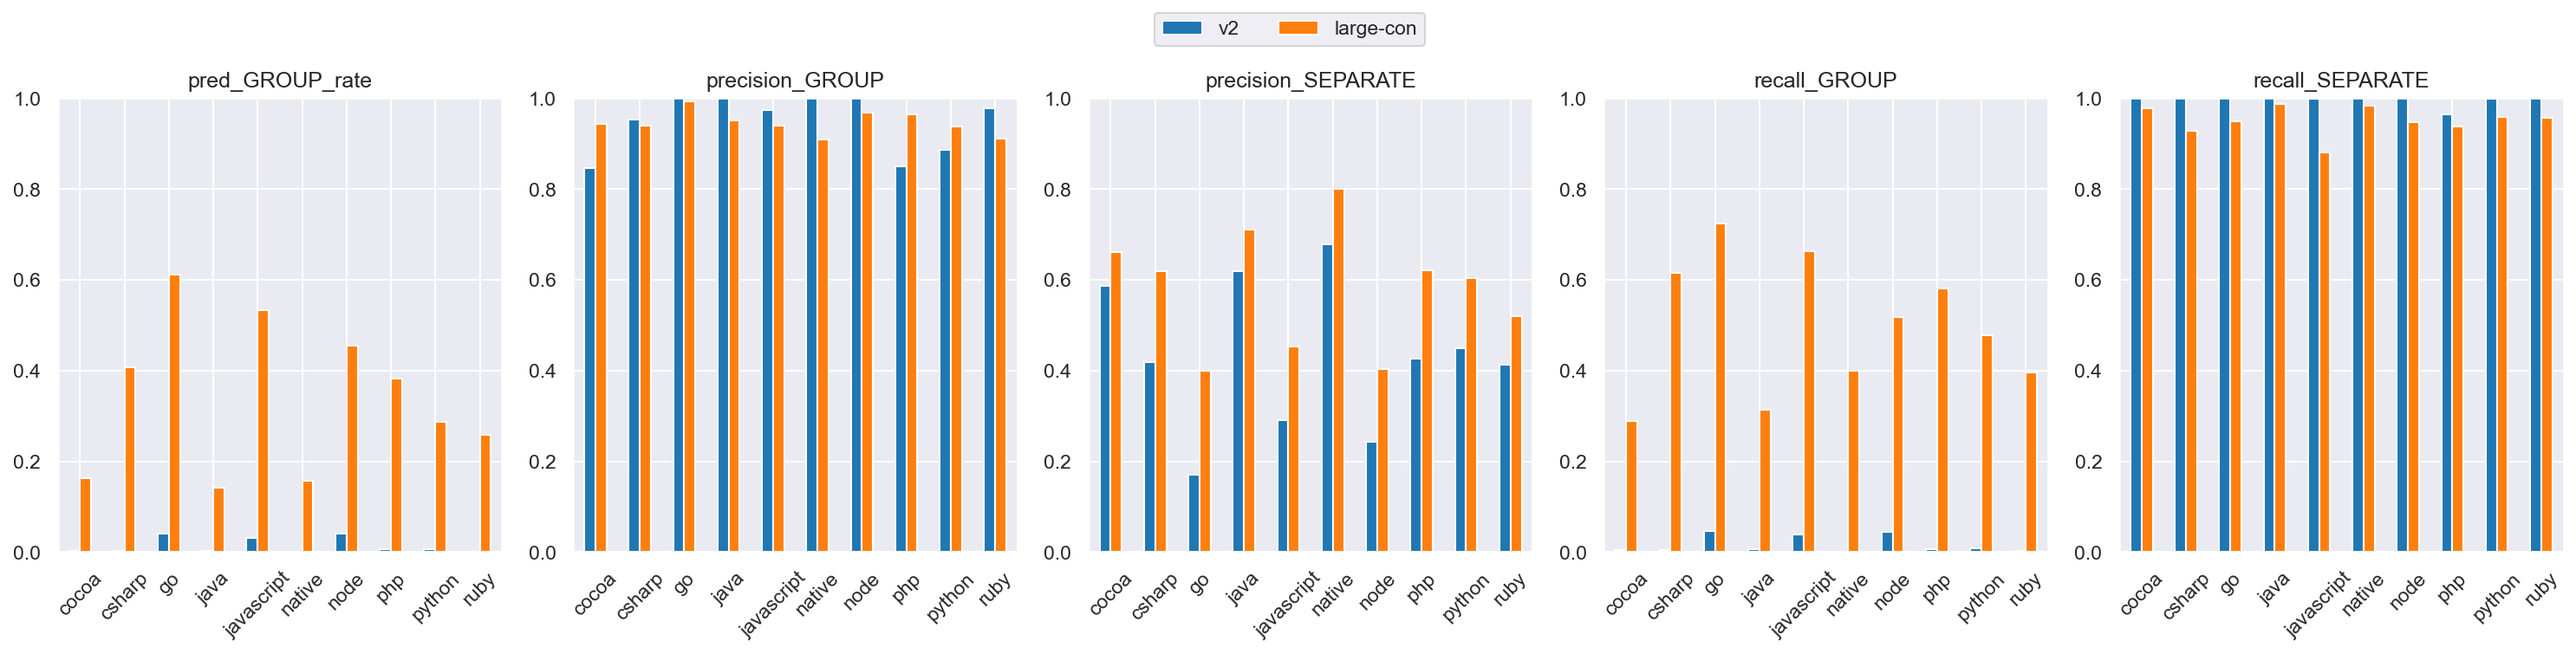
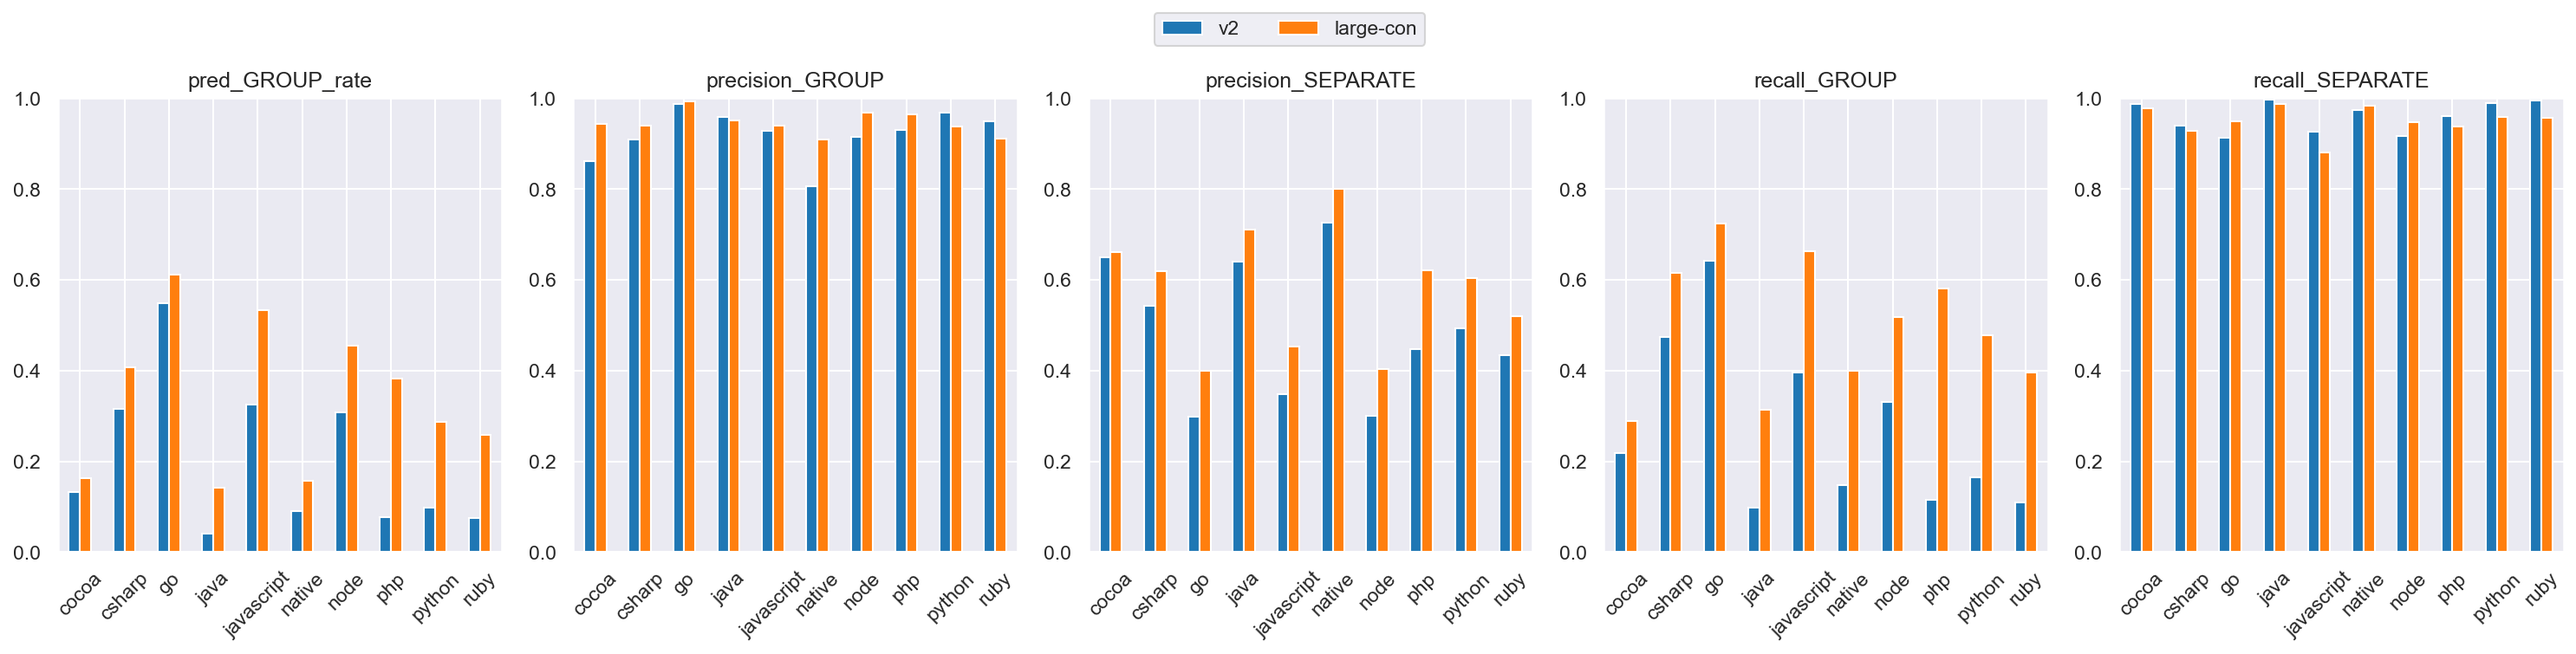
fix v2 comp

diff --git a/eval/comparisons/test_full2/v2_dim64_vs_large-con_dim64/README.md b/eval/comparisons/test_full2/v2_dim64_vs_large-con_dim64/README.md
@@ -8,7 +8,7 @@ python eval/compare.py \
     --name_model2 large-con \
     --gcs_model1 gs://grouping-data/runs/issue_grouping_v2/similarities/test_full2 \
     --gcs_model2 gs://grouping-data/runs/2026-04-07-11-56-28-large-con/similarities/test_full2 \
-    --threshold_model1 0.99 \
+    --threshold_model1 0.92 \
     --threshold_model2 0.90 \
     --dim_model1 64 \
     --dim_model2 64 \
@@ -31,29 +31,35 @@ python eval/compare.py \
 
 | model     | pred_GROUP_rate | precision_GROUP | precision_SEPARATE | recall_GROUP | recall_SEPARATE |
 |-----------|-----------------|-----------------|--------------------|--------------|-----------------|
-| v2        | 0.02            | 0.99            | 0.38               | 0.03         | 1.0             |
+| v2        | 0.28            | 0.98            | 0.51               | 0.43         | 0.98            |
 | large-con | 0.41            | 0.97            | 0.62               | 0.64         | 0.97            |
 
 ### Project-averaged metrics (210 projects)
 
 | model     | pred_GROUP_rate | precision_GROUP | precision_SEPARATE | recall_GROUP | recall_SEPARATE |
 |-----------|-----------------|-----------------|--------------------|--------------|-----------------|
-| v2        | 0.02            | 0.96            | 0.47               | 0.02         | 1.0             |
+| v2        | 0.19            | 0.93            | 0.54               | 0.28         | 0.97            |
 | large-con | 0.32            | 0.95            | 0.62               | 0.49         | 0.96            |
 
 ### Conditional probabilities
 
-P(large-con GROUP | v2 GROUP)    = 0.9930
+P(large-con GROUP | v2 GROUP)    = 0.8420
 
-P(large-con GROUP | v2 SEPARATE) = 0.3977
+P(large-con GROUP | v2 SEPARATE) = 0.2464
 
-P(large-con GROUP | v2 GROUP, distance < 0.005) = 0.9992  (n=1270)
+P(large-con GROUP | v2 GROUP, distance < 0.005) = 0.9868  (n=11628)
 
 ### Thresholds
 
 ```json
 {
-  "v2": 0.99,
+  "v2": {
+    "default": 0.92,
+    "cocoa": 0.8,
+    "csharp": 0.75,
+    "go": 0.8,
+    "node": 0.9
+  },
   "large-con": 0.9
 }
 ```
@@ -94,7 +100,7 @@ GROUP rate: 62.56%
 label GROUP rate: 81.67%
 | model     | pred_GROUP_rate | precision_GROUP | precision_SEPARATE | recall_GROUP | recall_SEPARATE |
 |-----------|-----------------|-----------------|--------------------|--------------|-----------------|
-| v2        | 0.01            | 0.99            | 0.18               | 0.01         | 1.0             |
+| v2        | 0.6             | 0.98            | 0.43               | 0.72         | 0.94            |
 | large-con | 0.45            | 0.98            | 0.31               | 0.54         | 0.94            |
 
 ### Long stacktraces (query_tokens >= p90 = 931 tokens, 23577 pairs)
@@ -102,7 +108,7 @@ label GROUP rate: 81.67%
 label GROUP rate: 70.76%
 | model     | pred_GROUP_rate | precision_GROUP | precision_SEPARATE | recall_GROUP | recall_SEPARATE |
 |-----------|-----------------|-----------------|--------------------|--------------|-----------------|
-| v2        | 0.01            | 1.0             | 0.29               | 0.01         | 1.0             |
+| v2        | 0.3             | 0.99            | 0.41               | 0.41         | 0.99            |
 | large-con | 0.52            | 0.98            | 0.58               | 0.72         | 0.97            |
 
 ## Threshold sweep
@@ -120,20 +126,20 @@ label GROUP rate: 70.76%
 ## Platform-level results
 
 
-### Metrics by platform, avg over projects (v2, threshold=0.99)
+### Metrics by platform, avg over projects (v2, platform-specific)
 
 | platform   | n_pairs | n_projects | label_GROUP_rate | min_threshold | pred_GROUP_rate | precision_GROUP | precision_SEPARATE | recall_GROUP | recall_SEPARATE |
 |------------|---------|------------|------------------|---------------|-----------------|-----------------|--------------------|--------------|-----------------|
-| cocoa      | 35279   | 66         | 0.365            | 0.99          | 0.002           | 0.846           | 0.586              | 0.004        | 1.0             |
-| csharp     | 25468   | 27         | 0.662            | 0.99          | 0.003           | 0.952           | 0.419              | 0.005        | 1.0             |
-| go         | 23302   | 14         | 0.91             | 0.99          | 0.042           | 1.0             | 0.171              | 0.046        | 1.0             |
-| java       | 25776   | 70         | 0.368            | 0.99          | 0.003           | 1.0             | 0.62               | 0.007        | 1.0             |
-| javascript | 62545   | 82         | 0.781            | 0.99          | 0.031           | 0.973           | 0.291              | 0.04         | 0.998           |
-| native     | 8834    | 49         | 0.272            | 0.99          | 0.001           | 1.0             | 0.677              | 0.002        | 1.0             |
-| node       | 11573   | 20         | 0.825            | 0.99          | 0.04            | 1.0             | 0.243              | 0.045        | 1.0             |
-| php        | 12019   | 14         | 0.722            | 0.99          | 0.007           | 0.85            | 0.426              | 0.006        | 0.964           |
-| python     | 17559   | 15         | 0.535            | 0.99          | 0.006           | 0.887           | 0.449              | 0.009        | 0.998           |
-| ruby       | 12943   | 15         | 0.61             | 0.99          | 0.001           | 0.978           | 0.413              | 0.004        | 1.0             |
+| cocoa      | 35279   | 66         | 0.365            | 0.8           | 0.133           | 0.862           | 0.649              | 0.218        | 0.988           |
+| csharp     | 25468   | 27         | 0.662            | 0.75          | 0.316           | 0.908           | 0.542              | 0.473        | 0.939           |
+| go         | 23302   | 14         | 0.91             | 0.8           | 0.548           | 0.988           | 0.299              | 0.642        | 0.912           |
+| java       | 25776   | 70         | 0.368            | 0.92          | 0.042           | 0.958           | 0.641              | 0.097        | 0.997           |
+| javascript | 62545   | 82         | 0.781            | 0.92          | 0.325           | 0.927           | 0.348              | 0.396        | 0.925           |
+| native     | 8834    | 49         | 0.272            | 0.92          | 0.091           | 0.807           | 0.726              | 0.148        | 0.974           |
+| node       | 11573   | 20         | 0.825            | 0.9           | 0.309           | 0.915           | 0.301              | 0.332        | 0.917           |
+| php        | 12019   | 14         | 0.722            | 0.92          | 0.077           | 0.931           | 0.447              | 0.115        | 0.961           |
+| python     | 17559   | 15         | 0.535            | 0.92          | 0.099           | 0.968           | 0.492              | 0.164        | 0.989           |
+| ruby       | 12943   | 15         | 0.61             | 0.92          | 0.076           | 0.948           | 0.434              | 0.109        | 0.995           |
 
 ### Metrics by platform, avg over projects (large-con, threshold=0.9)
 
@@ -215,33 +221,40 @@ label GROUP rate: 70.76%
 
 | org_id           | project_id       | platform   | n_pairs | label_GROUP_rate | v2_GROUP_rate | v2_prec | v2_rec | large-con_GROUP_rate | large-con_prec | large-con_rec | group_rate_increase |
 |------------------|------------------|------------|---------|------------------|---------------|---------|--------|----------------------|----------------|---------------|---------------------|
-| 335354           | 6271291          | csharp     | 5539    | 1.0              | 0.0           | NaN     | 0.0    | 1.0                  | 1.0            | 1.0           | 1.0                 |
-| 36448            | 81737            | go         | 1248    | 1.0              | 0.0           | 1.0     | 0.0    | 0.99                 | 1.0            | 0.99          | 0.99                |
-| 1123562          | 4504657826480128 | javascript | 36      | 1.0              | 0.0           | NaN     | 0.0    | 0.97                 | 1.0            | 0.97          | 0.97                |
-| 364465           | 1807587          | csharp     | 686     | 1.0              | 0.0           | NaN     | 0.0    | 0.96                 | 1.0            | 0.96          | 0.96                |
-| 494745           | 4508122107412480 | csharp     | 2923    | 0.99             | 0.0           | NaN     | 0.0    | 0.96                 | 1.0            | 0.97          | 0.96                |
-| 463977           | 4508760825462784 | javascript | 4758    | 0.98             | 0.0           | 1.0     | 0.0    | 0.92                 | 1.0            | 0.94          | 0.92                |
-| 18005            | 4508876123734016 | php        | 5687    | 0.96             | 0.01          | 0.99    | 0.01   | 0.92                 | 1.0            | 0.95          | 0.9                 |
-| 937001           | 4506358788718592 | go         | 1358    | 0.94             | 0.0           | 1.0     | 0.0    | 0.89                 | 1.0            | 0.95          | 0.89                |
-| 157624           | 1824476          | node       | 1494    | 0.96             | 0.05          | 1.0     | 0.05   | 0.92                 | 1.0            | 0.96          | 0.87                |
-| 332401           | 4504003594158080 | go         | 1633    | 0.96             | 0.01          | 1.0     | 0.01   | 0.86                 | 1.0            | 0.89          | 0.85                |
-| 71339            | 2818170          | javascript | 3647    | 0.97             | 0.01          | 1.0     | 0.01   | 0.81                 | 0.99           | 0.83          | 0.8                 |
-| 474806           | 4509124176052224 | node       | 1083    | 0.89             | 0.0           | 1.0     | 0.0    | 0.74                 | 0.99           | 0.82          | 0.74                |
-| 135626           | 5689183          | node       | 629     | 0.86             | 0.09          | 1.0     | 0.11   | 0.81                 | 0.95           | 0.9           | 0.72                |
-| 10377            | 5323974          | java       | 7       | 0.57             | 0.0           | NaN     | 0.0    | 0.57                 | 1.0            | 1.0           | 0.57                |
-| 956749           | 5906164          | python     | 960     | 0.61             | 0.05          | 0.98    | 0.08   | 0.61                 | 0.89           | 0.9           | 0.56                |
-| 1005940          | 4506037809184768 | php        | 289     | 0.9              | 0.0           | NaN     | 0.0    | 0.52                 | 1.0            | 0.58          | 0.52                |
-| 141073           | 5741739          | python     | 2380    | 0.74             | 0.0           | 1.0     | 0.0    | 0.5                  | 0.99           | 0.66          | 0.49                |
-| 1198943          | 6321418          | native     | 467     | 0.61             | 0.01          | 1.0     | 0.02   | 0.48                 | 0.99           | 0.77          | 0.46                |
-| 183536           | 4509513485123584 | php        | 95      | 0.58             | 0.0           | NaN     | 0.0    | 0.45                 | 0.98           | 0.76          | 0.45                |
-| 433797           | 4504451302621184 | ruby       | 2078    | 0.71             | 0.0           | 0.89    | 0.01   | 0.45                 | 0.99           | 0.63          | 0.45                |
-| 512760           | 5974150          | java       | 458     | 0.68             | 0.0           | 1.0     | 0.01   | 0.42                 | 0.96           | 0.6           | 0.42                |
-| 248451           | 1511685          | python     | 1990    | 0.65             | 0.01          | 1.0     | 0.01   | 0.41                 | 0.95           | 0.59          | 0.4                 |
-| 942219           | 4505920070877184 | ruby       | 1909    | 0.59             | 0.0           | 1.0     | 0.0    | 0.36                 | 0.87           | 0.52          | 0.36                |
-| 194313           | 4506110352293888 | cocoa      | 202     | 0.65             | 0.0           | NaN     | 0.0    | 0.35                 | 0.79           | 0.43          | 0.35                |
-| 4505071687041024 | 4508807082278912 | java       | 416     | 0.59             | 0.11          | 1.0     | 0.19   | 0.46                 | 1.0            | 0.77          | 0.34                |
-| 4505624712839168 | 4505958273974272 | ruby       | 1831    | 0.62             | 0.0           | 1.0     | 0.0    | 0.34                 | 0.96           | 0.52          | 0.34                |
-| 1129             | 4506378119806976 | cocoa      | 1494    | 0.72             | 0.0           | 1.0     | 0.0    | 0.3                  | 0.98           | 0.41          | 0.3                 |
-| 196395           | 5810417          | cocoa      | 418     | 0.46             | 0.0           | 0.5     | 0.01   | 0.23                 | 0.88           | 0.44          | 0.22                |
-| 18924            | 180537           | native     | 1739    | 0.46             | 0.0           | NaN     | 0.0    | 0.19                 | 0.91           | 0.39          | 0.19                |
-| 346391           | 4508796066529280 | native     | 338     | 0.32             | 0.02          | 1.0     | 0.06   | 0.21                 | 0.76           | 0.5           | 0.19                |
+| 1123562          | 4504657826480128 | javascript | 36      | 1.0              | 0.14          | 1.0     | 0.14   | 0.97                 | 1.0            | 0.97          | 0.83                |
+| 18005            | 4508876123734016 | php        | 5687    | 0.96             | 0.15          | 1.0     | 0.15   | 0.92                 | 1.0            | 0.95          | 0.77                |
+| 494745           | 4508122107412480 | csharp     | 2923    | 0.99             | 0.19          | 1.0     | 0.2    | 0.96                 | 1.0            | 0.97          | 0.77                |
+| 36448            | 81737            | go         | 1248    | 1.0              | 0.39          | 1.0     | 0.39   | 0.99                 | 1.0            | 0.99          | 0.6                 |
+| 1005940          | 4506037809184768 | php        | 289     | 0.9              | 0.02          | 1.0     | 0.03   | 0.52                 | 1.0            | 0.58          | 0.49                |
+| 463977           | 4508760825462784 | javascript | 4758    | 0.98             | 0.44          | 1.0     | 0.45   | 0.92                 | 1.0            | 0.94          | 0.48                |
+| 474806           | 4509124176052224 | node       | 1083    | 0.89             | 0.32          | 0.99    | 0.36   | 0.74                 | 0.99           | 0.82          | 0.42                |
+| 157624           | 1824476          | node       | 1494    | 0.96             | 0.52          | 1.0     | 0.54   | 0.92                 | 1.0            | 0.96          | 0.4                 |
+| 71339            | 2818170          | javascript | 3647    | 0.97             | 0.42          | 0.99    | 0.43   | 0.81                 | 0.99           | 0.83          | 0.39                |
+| 27134            | 270058           | javascript | 1513    | 0.83             | 0.46          | 0.91    | 0.51   | 0.85                 | 0.89           | 0.91          | 0.38                |
+| 131610           | 290653           | php        | 971     | 0.59             | 0.03          | 0.93    | 0.05   | 0.4                  | 0.93           | 0.63          | 0.37                |
+| 183536           | 4509513485123584 | php        | 95      | 0.58             | 0.09          | 1.0     | 0.16   | 0.45                 | 0.98           | 0.76          | 0.36                |
+| 335354           | 6271291          | csharp     | 5539    | 1.0              | 0.65          | 1.0     | 0.65   | 1.0                  | 1.0            | 1.0           | 0.35                |
+| 433797           | 4504451302621184 | ruby       | 2078    | 0.71             | 0.11          | 0.98    | 0.15   | 0.45                 | 0.99           | 0.63          | 0.34                |
+| 141073           | 5741739          | python     | 2380    | 0.74             | 0.16          | 0.99    | 0.22   | 0.5                  | 0.99           | 0.66          | 0.34                |
+| 942219           | 4505920070877184 | ruby       | 1909    | 0.59             | 0.06          | 0.88    | 0.09   | 0.36                 | 0.87           | 0.52          | 0.29                |
+| 248451           | 1511685          | python     | 1990    | 0.65             | 0.13          | 0.95    | 0.19   | 0.41                 | 0.95           | 0.59          | 0.27                |
+| 512760           | 5974150          | java       | 458     | 0.68             | 0.15          | 1.0     | 0.22   | 0.42                 | 0.96           | 0.6           | 0.27                |
+| 4505624712839168 | 4505958273974272 | ruby       | 1831    | 0.62             | 0.07          | 0.99    | 0.11   | 0.34                 | 0.96           | 0.52          | 0.27                |
+| 482609           | 4508210482905088 | python     | 88      | 0.64             | 0.15          | 0.92    | 0.21   | 0.4                  | 0.89           | 0.55          | 0.25                |
+| 354398           | 2633852          | node       | 2578    | 0.88             | 0.18          | 0.99    | 0.2    | 0.43                 | 1.0            | 0.49          | 0.25                |
+| 350427           | 6553847          | java       | 2982    | 0.62             | 0.06          | 0.98    | 0.1    | 0.31                 | 0.98           | 0.49          | 0.25                |
+| 33646            | 4506597175394304 | csharp     | 1135    | 0.5              | 0.1           | 0.93    | 0.18   | 0.34                 | 0.97           | 0.66          | 0.24                |
+| 194313           | 4506110352293888 | cocoa      | 202     | 0.65             | 0.11          | 0.77    | 0.13   | 0.35                 | 0.79           | 0.43          | 0.24                |
+| 4506146950676480 | 4507936016302080 | go         | 1267    | 0.9              | 0.56          | 0.99    | 0.62   | 0.78                 | 0.99           | 0.86          | 0.22                |
+| 937001           | 4506358788718592 | go         | 1358    | 0.94             | 0.68          | 0.99    | 0.72   | 0.89                 | 1.0            | 0.95          | 0.21                |
+| 494704           | 5566257          | go         | 2481    | 0.83             | 0.32          | 0.99    | 0.39   | 0.53                 | 0.98           | 0.62          | 0.2                 |
+| 120871           | 6716242          | java       | 436     | 0.45             | 0.08          | 0.97    | 0.17   | 0.26                 | 0.81           | 0.46          | 0.18                |
+| 1122625          | 6534409          | node       | 2825    | 0.89             | 0.6           | 1.0     | 0.67   | 0.77                 | 1.0            | 0.85          | 0.17                |
+| 83388            | 4505567339675648 | native     | 1130    | 0.51             | 0.01          | 1.0     | 0.02   | 0.17                 | 0.95           | 0.32          | 0.17                |
+
+### >= 10% group rate decrease
+
+| org_id | project_id       | platform | n_pairs | label_GROUP_rate | v2_GROUP_rate | v2_prec | v2_rec | large-con_GROUP_rate | large-con_prec | large-con_rec | group_rate_decrease |
+|--------|------------------|----------|---------|------------------|---------------|---------|--------|----------------------|----------------|---------------|---------------------|
+| 213164 | 4504322135097344 | go       | 9407    | 1.0              | 0.99          | 1.0     | 0.99   | 0.32                 | 1.0            | 0.32          | 0.68                |
+| 304550 | 5790930          | csharp   | 998     | 0.69             | 0.38          | 0.96    | 0.52   | 0.21                 | 0.98           | 0.3           | 0.16                |
